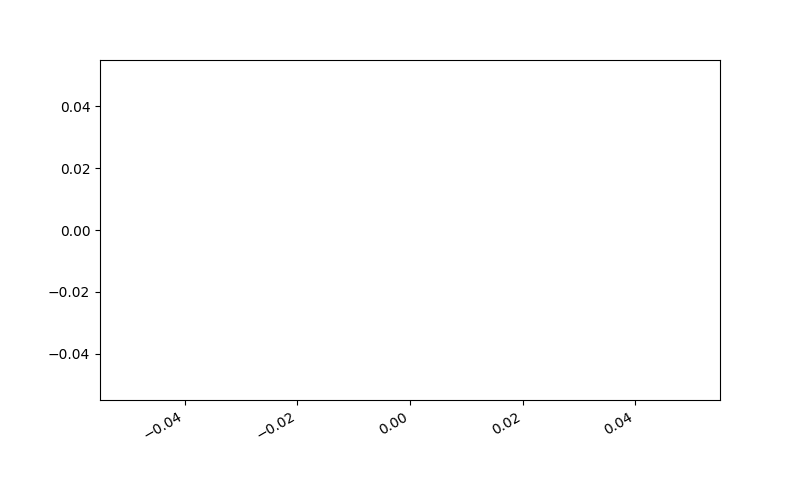
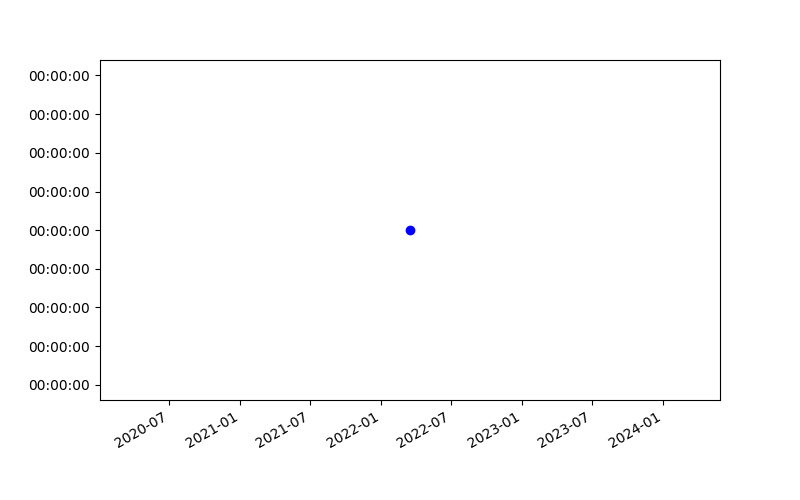
add_log time is complete

diff --git a/templates/add_logs.html b/templates/add_logs.html
@@ -19,7 +19,6 @@
         <h3><a href="/main">Home </a>_|_<a href="/logout"> Logout</a></h3>
       </div>
     </div><br><br>
-
     <div class="row add_log">
       <div class="col-sm-8 offset-2 d-flex justify-content-center">
         <form id="log_form" action="add" method="post">
@@ -50,7 +49,7 @@
               {% elif t.type=='Time' -%}
               <label for="value">Time Duration:</label>
               <input type="text" name="value" value="{{timedict.duration}}">
-        </form>
+              </form>
               <form id="time" action="add" method="get">
                 <label for="start">Record Start and End time:</label><br>
                 <input class="i" type="time" name="start" value="{{timedict.start}}" step='any'>

diff --git a/templates/add_tracker.html b/templates/add_tracker.html
@@ -31,7 +31,7 @@
             <option value="Time">Time Duration</option>
             <option value="Multiple-choice">Multiple-Choice</option>
           </select><br>
-          <label for="settings">Settings(Separated by comma):</label><input type="text" name="settings" value=""><br>
+          <label for="settings">Options(Separated by comma):</label><input type="text" name="settings" value=""><br>
             <button type="submit" name="submit">Add Tracker</button>
         </form>
       </div>

diff --git a/static/main.css b/static/main.css
@@ -2,6 +2,7 @@
   float:center;
 }
 .table{
+  box-shadow: 0 6px 20px 0 rgba(0, 0, 0, 0.2), 0 6px 20px 0 rgba(0, 0, 0, 0.2);
   background-color: #8bf7ed38;
   border-radius: 15px;
   border: hidden;

diff --git a/main.py b/main.py
@@ -6,6 +6,7 @@ from flask_login import LoginManager,login_user,login_required,logout_user,curre
 from datetime import datetime
 from matplotlib import pyplot as plt
 from matplotlib.ticker import MaxNLocator
+from matplotlib.dates import DateFormatter
 import random as r
 
 #app initialization
@@ -140,9 +141,12 @@ def view_tl(tracker_id):
             elif t.type=='Numeric':
                 plt.ylabel('Float')
                 y.append(float(i.log_value))
-            else:
-                plt.ylabel('Settings')
+            elif t.type=='Multiple-choice':
+                plt.ylabel('Options')
                 y.append(i.log_value)
+            elif t.type=='Time':
+                ax.yaxis.set_major_formatter(DateFormatter('%H:%M:%S'))
+                y.append(datetime.strptime(i.log_value,"%H:%M:%S"))
     plt.plot(x,y,marker='o',color='b',linestyle='--')
     plt.gcf().autofmt_xdate()
     plt.savefig('static/chart.png')
@@ -200,6 +204,8 @@ def add_logs(tracker_id):
     if request.method=='POST':
         try:
             value=request.form.get('value')
+            if t.type=='Time':
+              check=datetime.strptime(value,'%H:%M:%S')
             log_datetime=datetime.strptime(request.form.get("time"),'%d/%b/%Y, %H:%M:%S.%f')
             l=log(tracker_id=tracker_id,log_datetime=log_datetime,note=request.form.get('note'),log_value=value)
             db.session.add(l)
@@ -224,14 +230,13 @@ def add_logs(tracker_id):
             e=''
         d=''
         if s!='' and e!='':
-            print(request.args,datetime.strptime(e,'%H:%M:%S')-datetime.strptime(s,'%H:%M:%S'))
             d=datetime.strptime(e,'%H:%M:%S')-datetime.strptime(s,'%H:%M:%S')
         timedict={'start':s,'end':e,'duration':d}
     return render_template('add_logs.html',t=t,datetime=datetime,timedict=timedict)
 
 @app.route('/<int:log_id>/log/update',methods=['GET','POST'])
 @login_required
-def update_log(log_id):
+def update_log(log_id):#############more validation needed#######
     #validation
     if (log_id,) not in db.session.query(log.log_id).all():
         return notfound('log_id_not_found')
@@ -249,7 +254,7 @@ def update_log(log_id):
 
 @app.route('/<int:log_id>/log/delete',methods=['GET','POST'])
 @login_required
-def delete_log(log_id):######deletevalidation####################
+def delete_log(log_id):
     #validation
     if (log_id,) not in db.session.query(log.log_id).all():
         return notfound('log_id_not_found')
